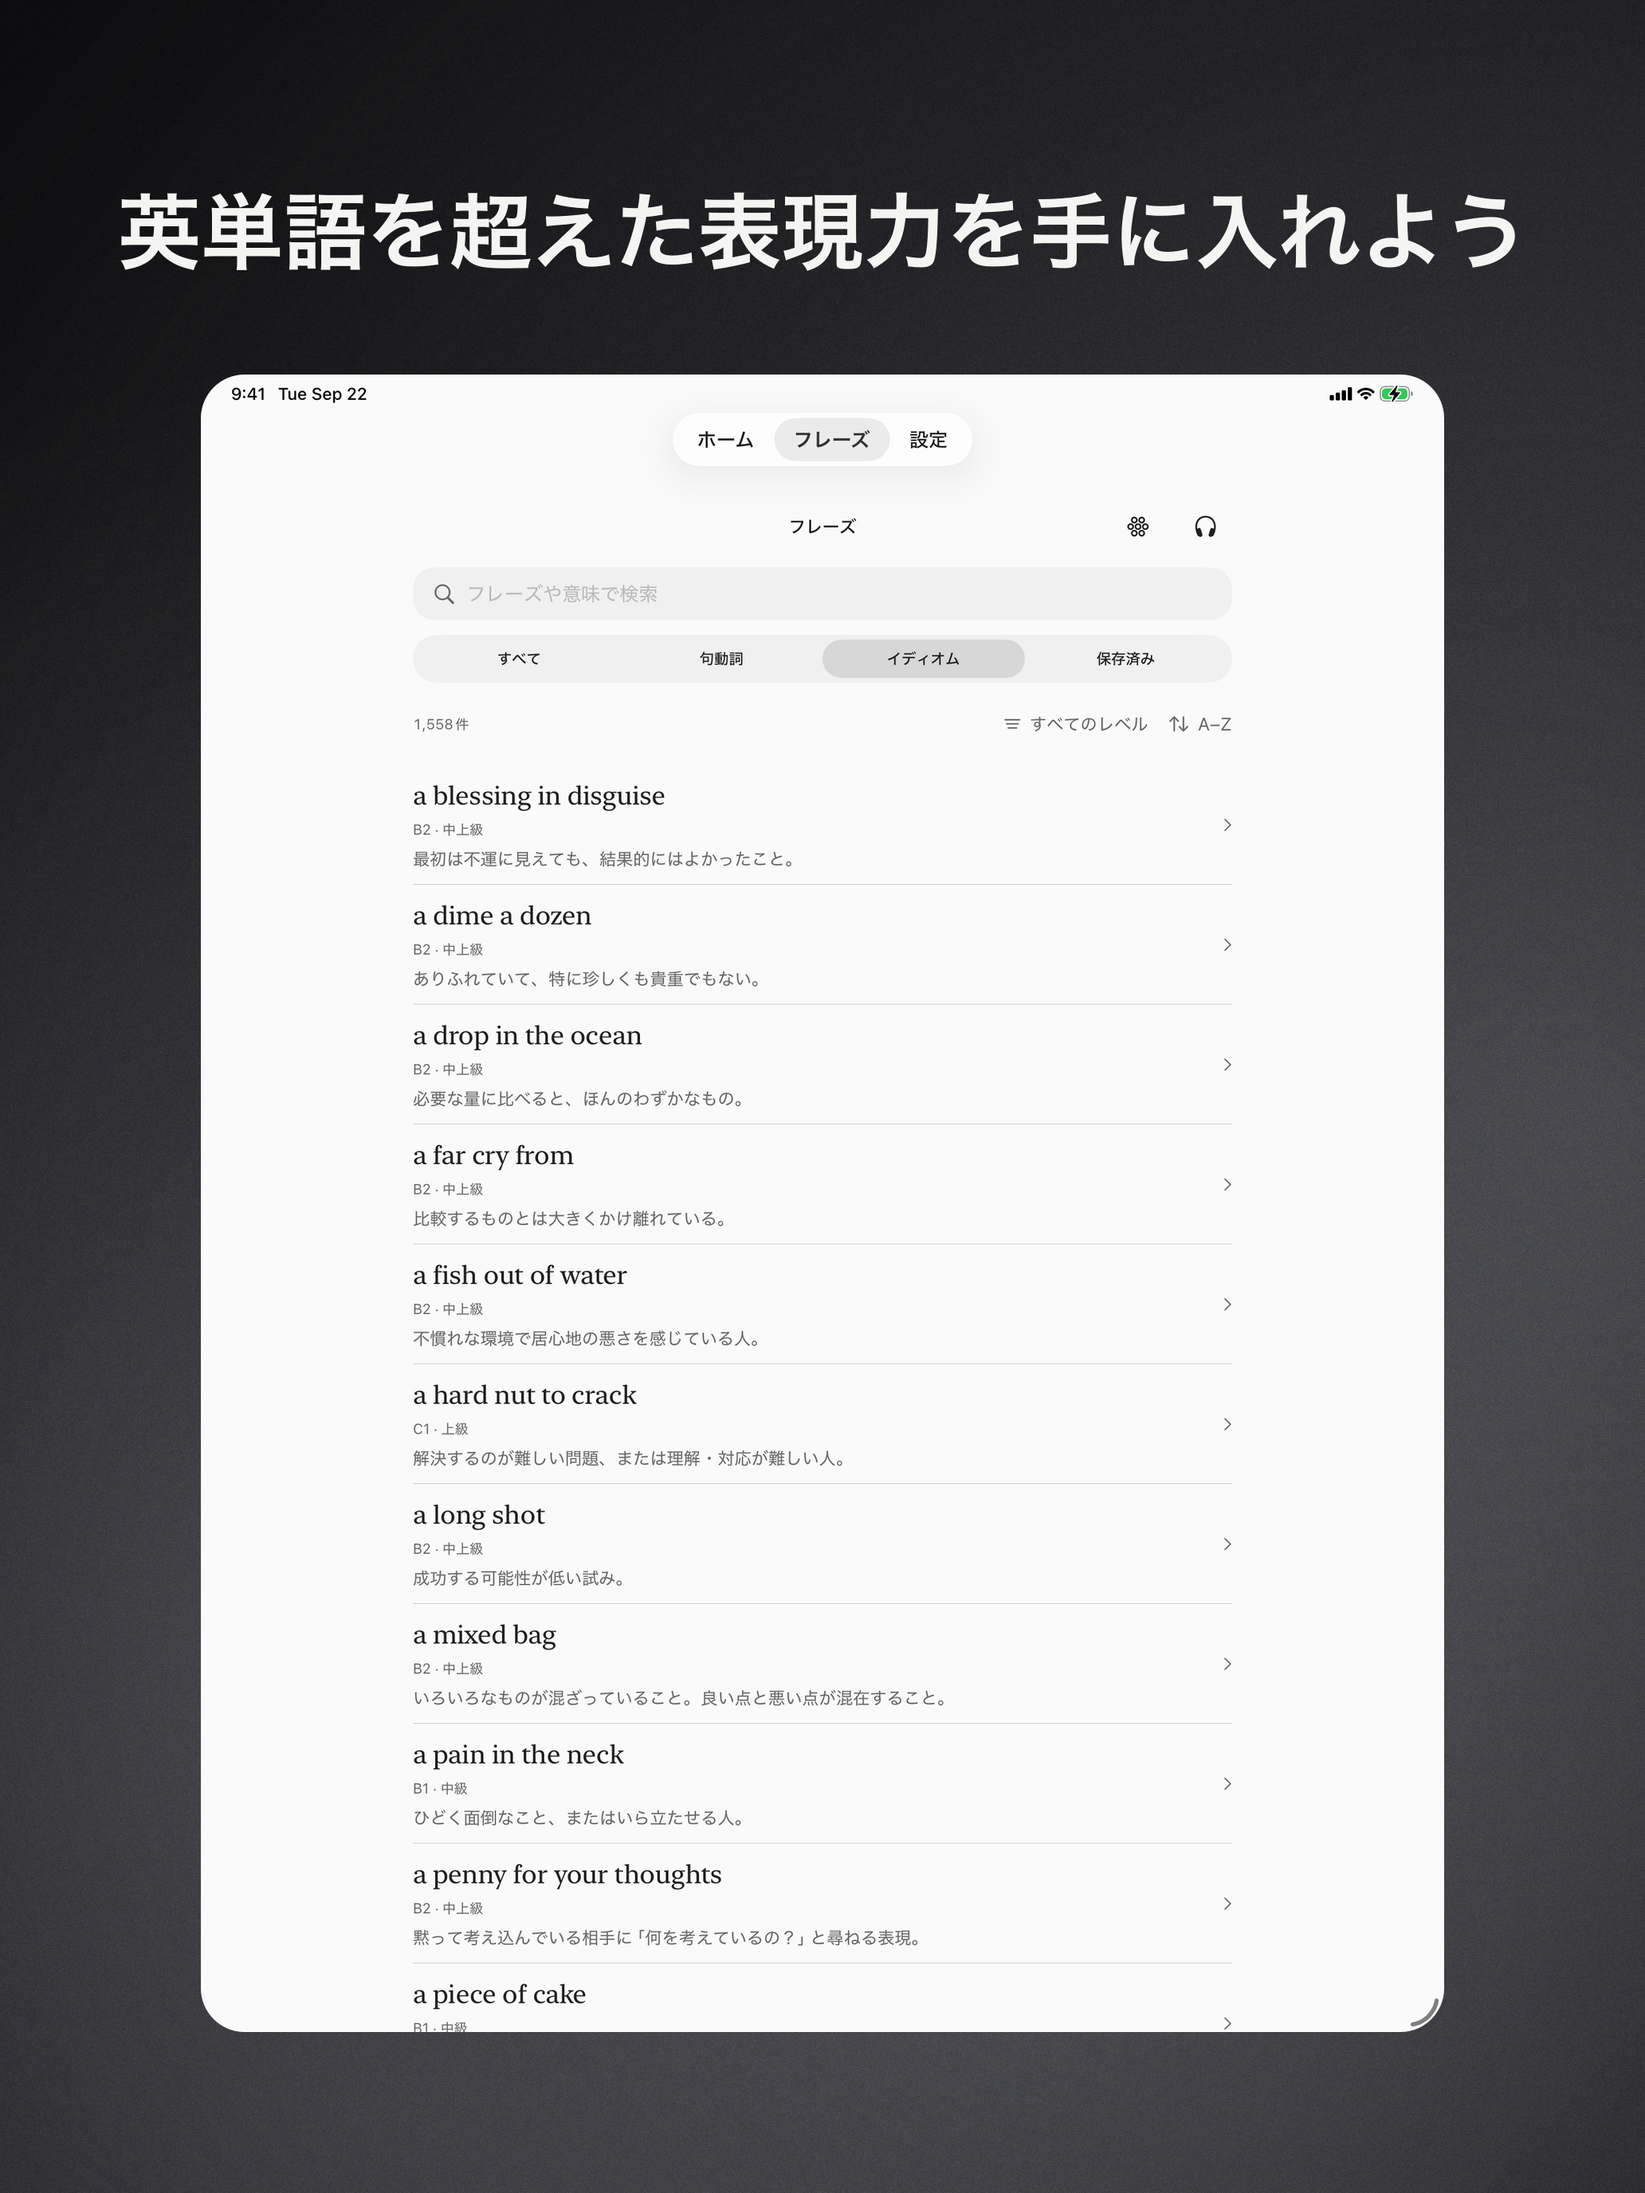
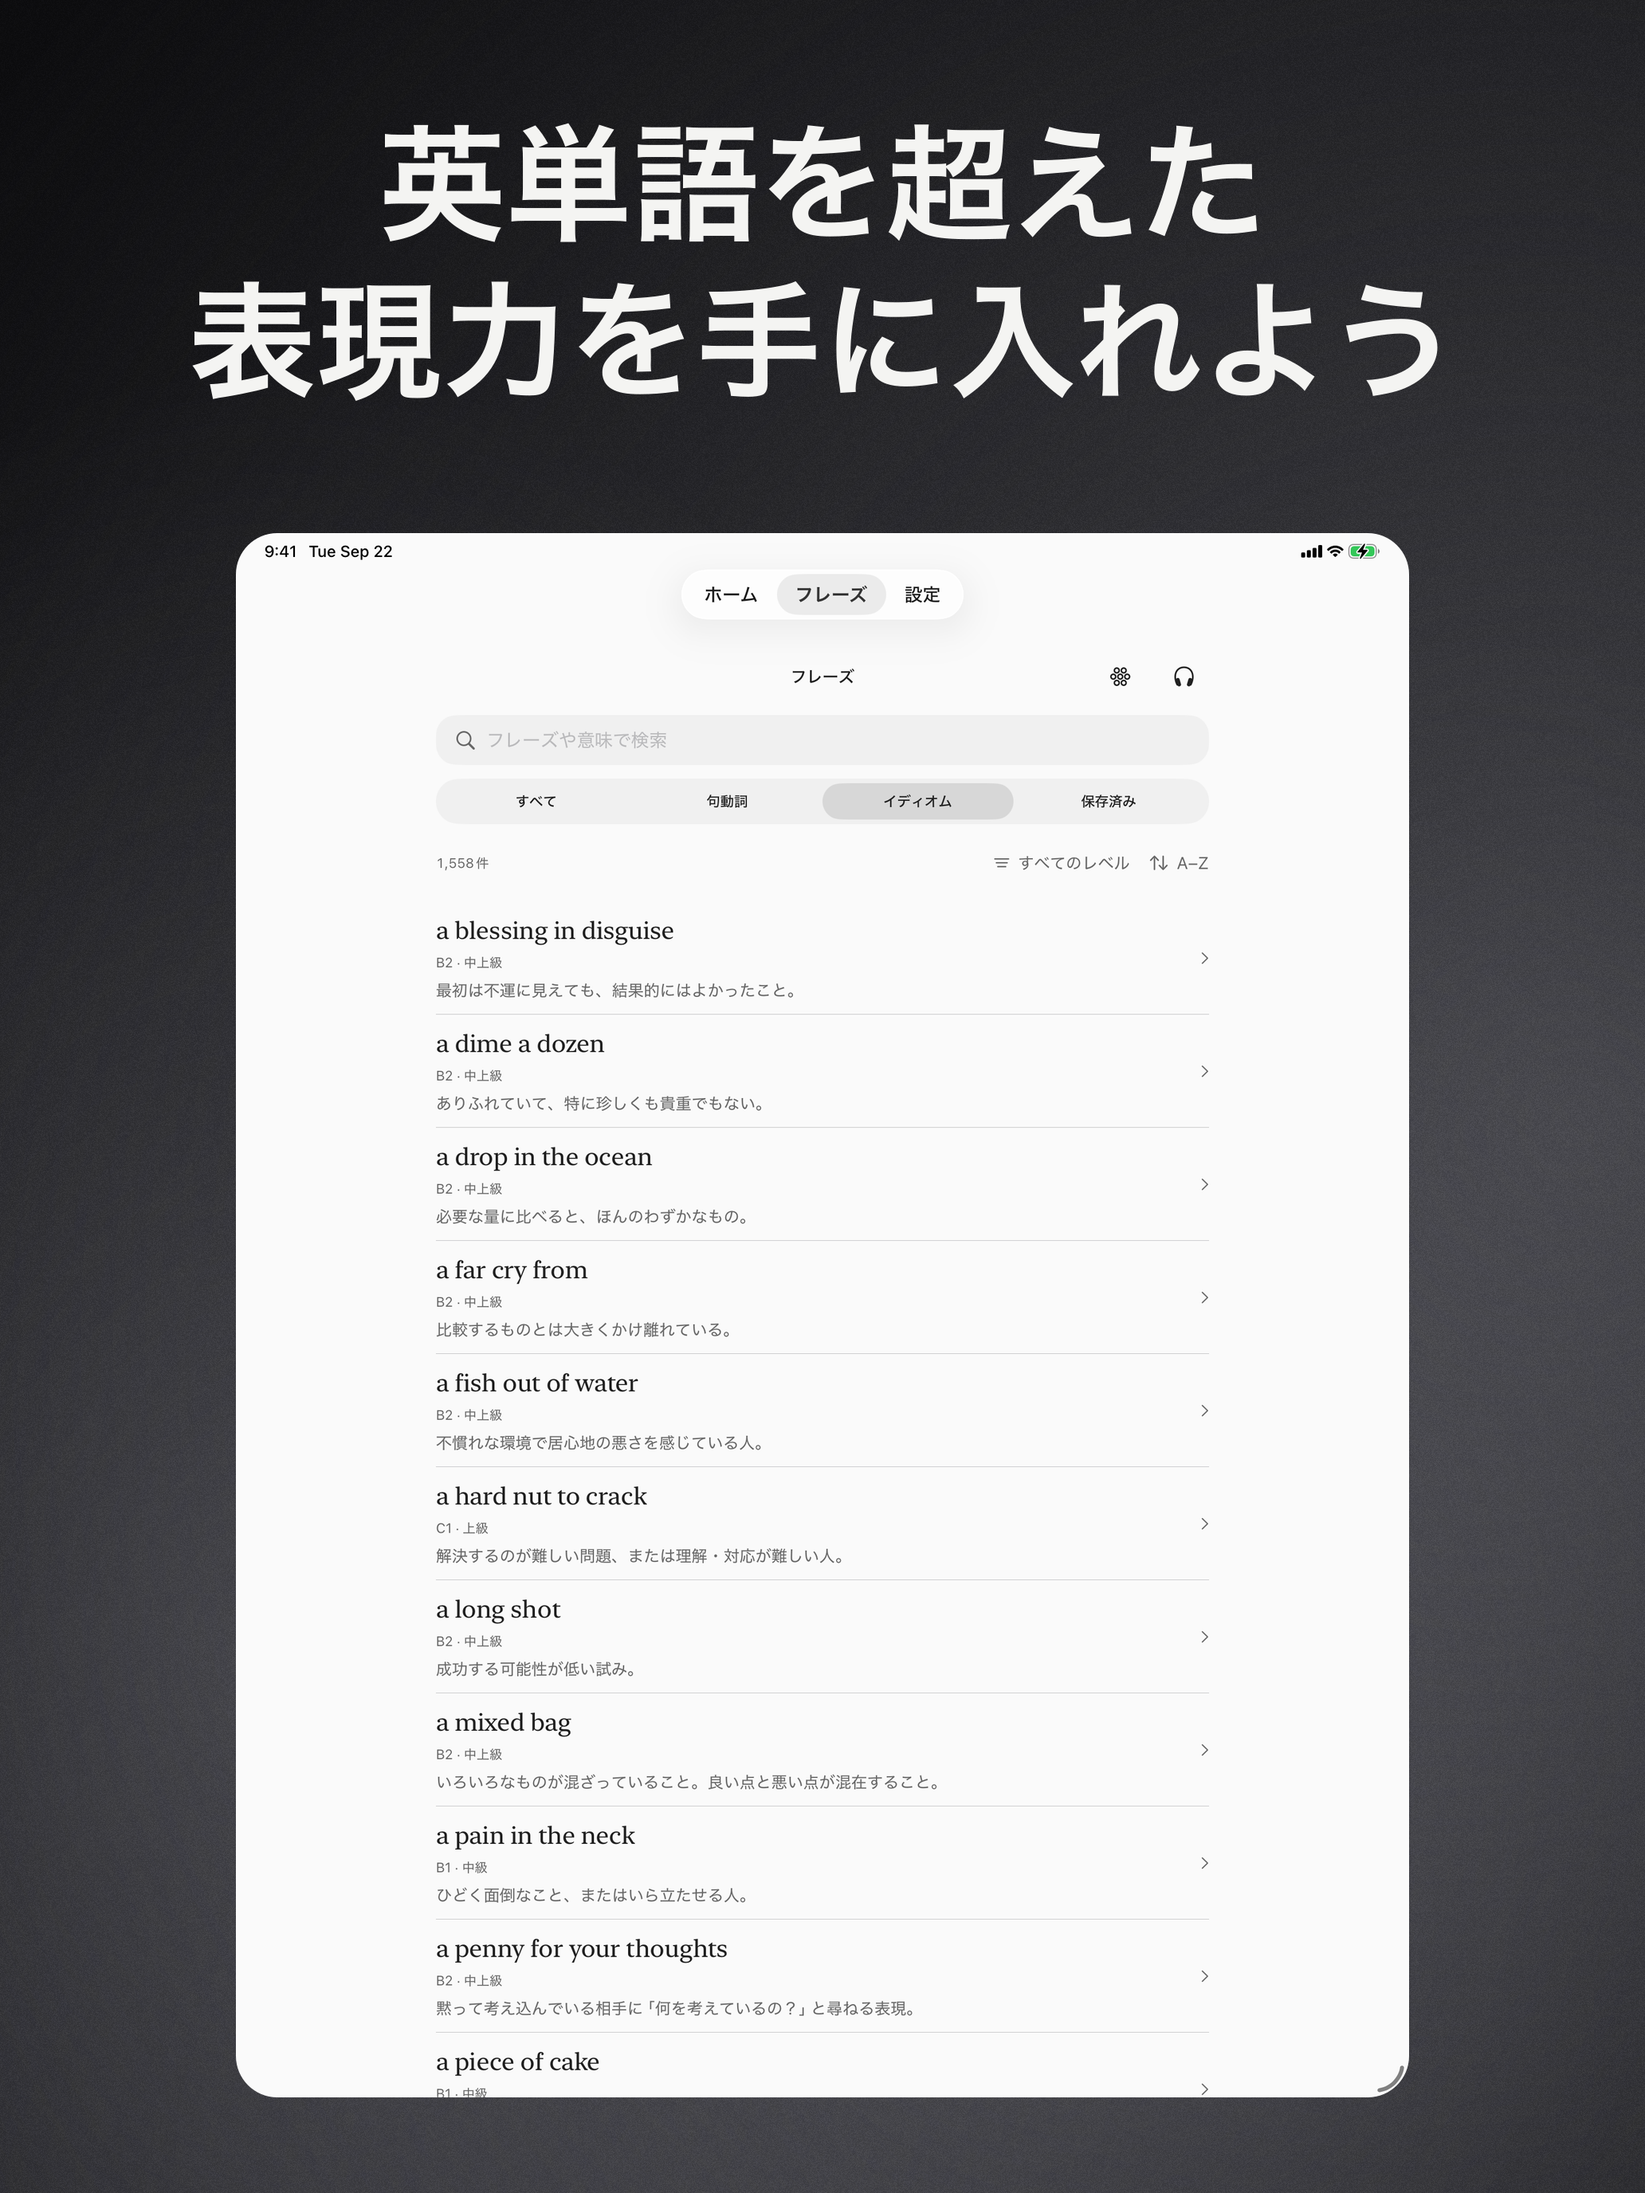
feat(store): break the long lines in two and set the copy larger
One line per frame set the whole row at about 67 pixels on the iPhone, fixed by
the longest line. Legibility matters more than keeping each message on a single
line, so every title is now two lines, broken by hand where the sense breaks, and
the copy rises to about 116 pixels on the iPhone and 150 on the iPad.

The English lines were reworded so they break naturally rather than splitting a
name across lines. Each set is laid out for its longest title, so the capture sits
in the same place in every frame, and the capture is as large as the room below
the copy allows and always shown whole.

diff --git a/AppStore/screenshots/preview.html b/AppStore/screenshots/preview.html
@@ -1,1 +1,1 @@
-<!doctype html><html lang="en"><meta charset="utf-8"><title>Izzy — Store images</title><meta name="viewport" content="width=device-width, initial-scale=1"><style>body{margin:40px;background:#1a1a1c;color:#eee;font:14px system-ui}h2{font-weight:500;margin:32px 0 12px}.row{display:flex;gap:16px;overflow-x:auto}.row img{height:560px;border-radius:12px}</style><h2>iPhone-6.9 · ja</h2><div class="row"><img src="iPhone-6.9/app-store-ja-01-home.png" alt="句動詞とイディオムに特化"><img src="iPhone-6.9/app-store-ja-02-examples.png" alt="例文とコアイメージで使える英語に"><img src="iPhone-6.9/app-store-ja-03-review.png" alt="忘却曲線に従った復習ストラテジー"><img src="iPhone-6.9/app-store-ja-04-expressions.png" alt="英単語を超えた表現力を手に入れよう"></div><h2>iPhone-6.9 · en</h2><div class="row"><img src="iPhone-6.9/app-store-en-01-home.png" alt="Built for phrasal verbs and idioms"><img src="iPhone-6.9/app-store-en-02-examples.png" alt="Examples and core images, for real use"><img src="iPhone-6.9/app-store-en-03-review.png" alt="Reviews timed to the forgetting curve"><img src="iPhone-6.9/app-store-en-04-expressions.png" alt="Go beyond single words"></div><h2>iPad-13 · ja</h2><div class="row"><img src="iPad-13/app-store-ja-01-home.png" alt="句動詞とイディオムに特化"><img src="iPad-13/app-store-ja-02-examples.png" alt="例文とコアイメージで使える英語に"><img src="iPad-13/app-store-ja-03-review.png" alt="忘却曲線に従った復習ストラテジー"><img src="iPad-13/app-store-ja-04-expressions.png" alt="英単語を超えた表現力を手に入れよう"></div><h2>iPad-13 · en</h2><div class="row"><img src="iPad-13/app-store-en-01-home.png" alt="Built for phrasal verbs and idioms"><img src="iPad-13/app-store-en-02-examples.png" alt="Examples and core images, for real use"><img src="iPad-13/app-store-en-03-review.png" alt="Reviews timed to the forgetting curve"><img src="iPad-13/app-store-en-04-expressions.png" alt="Go beyond single words"></div></html>
+<!doctype html><html lang="en"><meta charset="utf-8"><title>Izzy — Store images</title><meta name="viewport" content="width=device-width, initial-scale=1"><style>body{margin:40px;background:#1a1a1c;color:#eee;font:14px system-ui}h2{font-weight:500;margin:32px 0 12px}.row{display:flex;gap:16px;overflow-x:auto}.row img{height:560px;border-radius:12px}</style><h2>iPhone-6.9 · ja</h2><div class="row"><img src="iPhone-6.9/app-store-ja-01-home.png" alt="句動詞と イディオムに特化"><img src="iPhone-6.9/app-store-ja-02-examples.png" alt="例文とコアイメージで 使える英語に"><img src="iPhone-6.9/app-store-ja-03-review.png" alt="忘却曲線に従った 復習ストラテジー"><img src="iPhone-6.9/app-store-ja-04-expressions.png" alt="英単語を超えた 表現力を手に入れよう"></div><h2>iPhone-6.9 · en</h2><div class="row"><img src="iPhone-6.9/app-store-en-01-home.png" alt="Just phrasal verbs and idioms"><img src="iPhone-6.9/app-store-en-02-examples.png" alt="Examples. Core images. English you can use."><img src="iPhone-6.9/app-store-en-03-review.png" alt="Reviews timed to the forgetting curve"><img src="iPhone-6.9/app-store-en-04-expressions.png" alt="Say more than single words can"></div><h2>iPad-13 · ja</h2><div class="row"><img src="iPad-13/app-store-ja-01-home.png" alt="句動詞と イディオムに特化"><img src="iPad-13/app-store-ja-02-examples.png" alt="例文とコアイメージで 使える英語に"><img src="iPad-13/app-store-ja-03-review.png" alt="忘却曲線に従った 復習ストラテジー"><img src="iPad-13/app-store-ja-04-expressions.png" alt="英単語を超えた 表現力を手に入れよう"></div><h2>iPad-13 · en</h2><div class="row"><img src="iPad-13/app-store-en-01-home.png" alt="Just phrasal verbs and idioms"><img src="iPad-13/app-store-en-02-examples.png" alt="Examples. Core images. English you can use."><img src="iPad-13/app-store-en-03-review.png" alt="Reviews timed to the forgetting curve"><img src="iPad-13/app-store-en-04-expressions.png" alt="Say more than single words can"></div></html>
